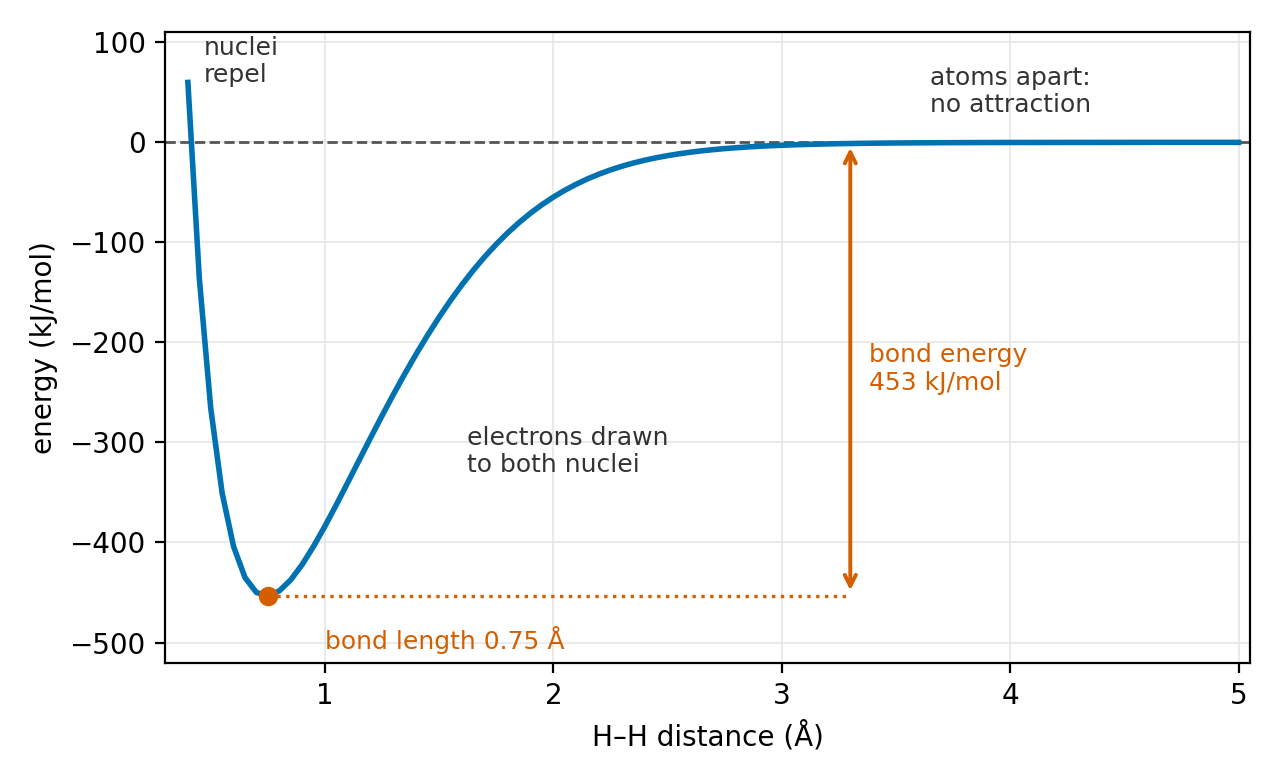
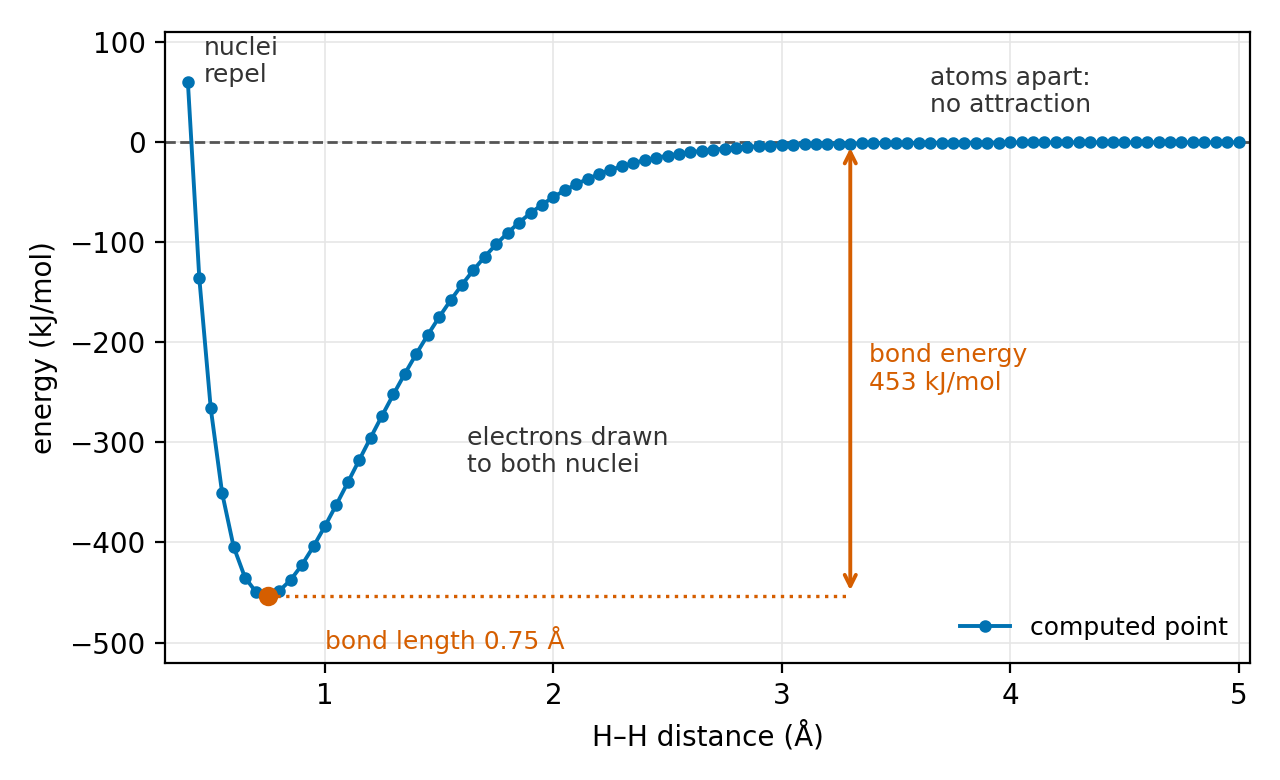
H2 bond curve: a dot for each of the 93 computed points; caption says how the scan made them

diff --git a/chapters/teaching-h2-bond.tex b/chapters/teaching-h2-bond.tex
@@ -49,7 +49,7 @@ The curve has three parts. Far out, beyond \SI{3}{\angstrom}, the energy changes
 \begin{figure}[htbp]
 	\centering
 	\includegraphics[width=0.85\linewidth]{h2-bond/h2-curve.ecce-9.5.3-dev.png}
-	\caption{Energy of two hydrogen atoms against their distance, from the stored calculation \emph{h2\_bond\_curve}, with the energy of the two atoms far apart (\SI{5.0}{\angstrom}) as zero. The lowest point gives the bond length, its depth below zero the bond energy. The \menu{Relaxed Scan} panel draws the same curve with \menu{Zero:} set to its lowest point.}
+	\caption{Energy of two hydrogen atoms against their distance, from the stored calculation \emph{h2\_bond\_curve}, with the energy of the two atoms far apart (\SI{5.0}{\angstrom}) as zero. Each dot is one computed point: the scan stepped the distance from \SI{5.0}{\angstrom} down to \SI{0.4}{\angstrom} in steps of \SI{0.05}{\angstrom} and computed the energy at each of the 93 distances; the line only joins them. The lowest point gives the bond length, its depth below zero the bond energy. The \menu{Relaxed Scan} panel draws the same curve with \menu{Zero:} set to its lowest point.}
 	\label{fig:h2-curve}
 \end{figure}
 

diff --git a/calculations/teaching-figures/plot_h2_curve.py b/calculations/teaching-figures/plot_h2_curve.py
@@ -1,6 +1,6 @@
 #!/usr/bin/env python3
 """The H2 bond curve of the General Chemistry example h2_bond_curve, from its
-stored SCANCOORD and SCANENERGY, relative to the point at 5.0 A (the two atoms
+stored SCANCOORD and SCANENERGY, each computed point drawn as a dot, relative to the point at 5.0 A (the two atoms
 apart), with the bond length and bond energy marked.
 
     python3 plot_h2_curve.py <stored calc Props dir> <out.png>
@@ -31,7 +31,9 @@ for want in (4.0, 3.0, 2.5, 2.0, 1.5, 1.2, 1.0, 0.8, 0.75, 0.7, 0.5, 0.4):
 
 fig, ax = plt.subplots(figsize=(6.4, 3.9))
 ax.axhline(0, color="#555555", lw=1.0, ls="--")
-ax.plot(r, de, "-", color="#0072B2", lw=2.0)
+# a dot for every computed point, so the curve is visibly made of them
+ax.plot(r, de, "-o", color="#0072B2", lw=1.4, ms=3.5, label="computed point")
+ax.legend(loc="lower right", fontsize=9, frameon=False)
 ax.plot([r[i]], [de[i]], "o", color="#D55E00", ms=6, zorder=5)
 ax.plot([r[i], 3.3], [de[i], de[i]], ":", color="#D55E00", lw=1.2)
 ax.annotate("", xy=(3.3, de[i]), xytext=(3.3, 0),
